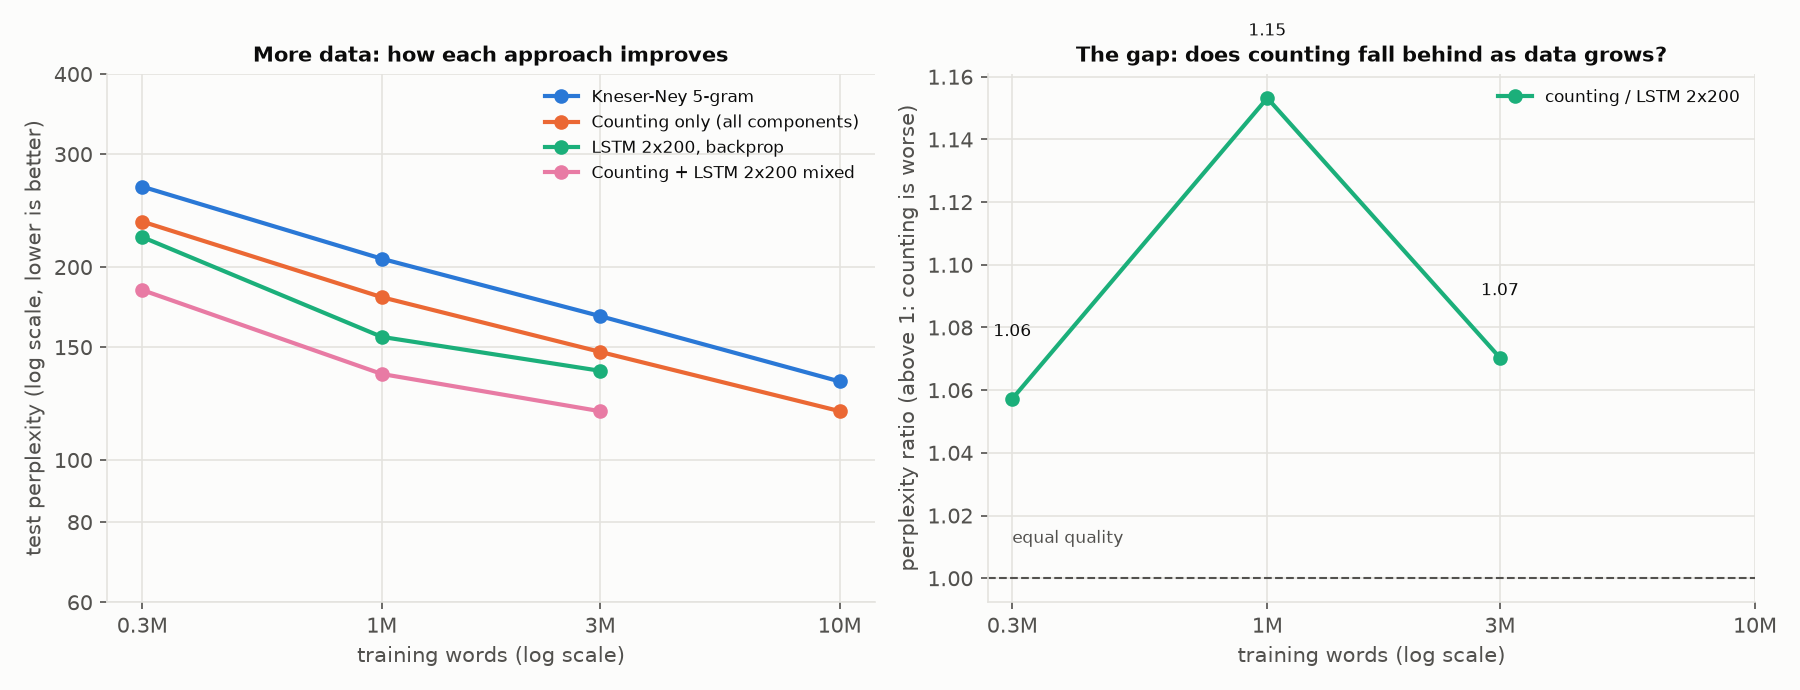
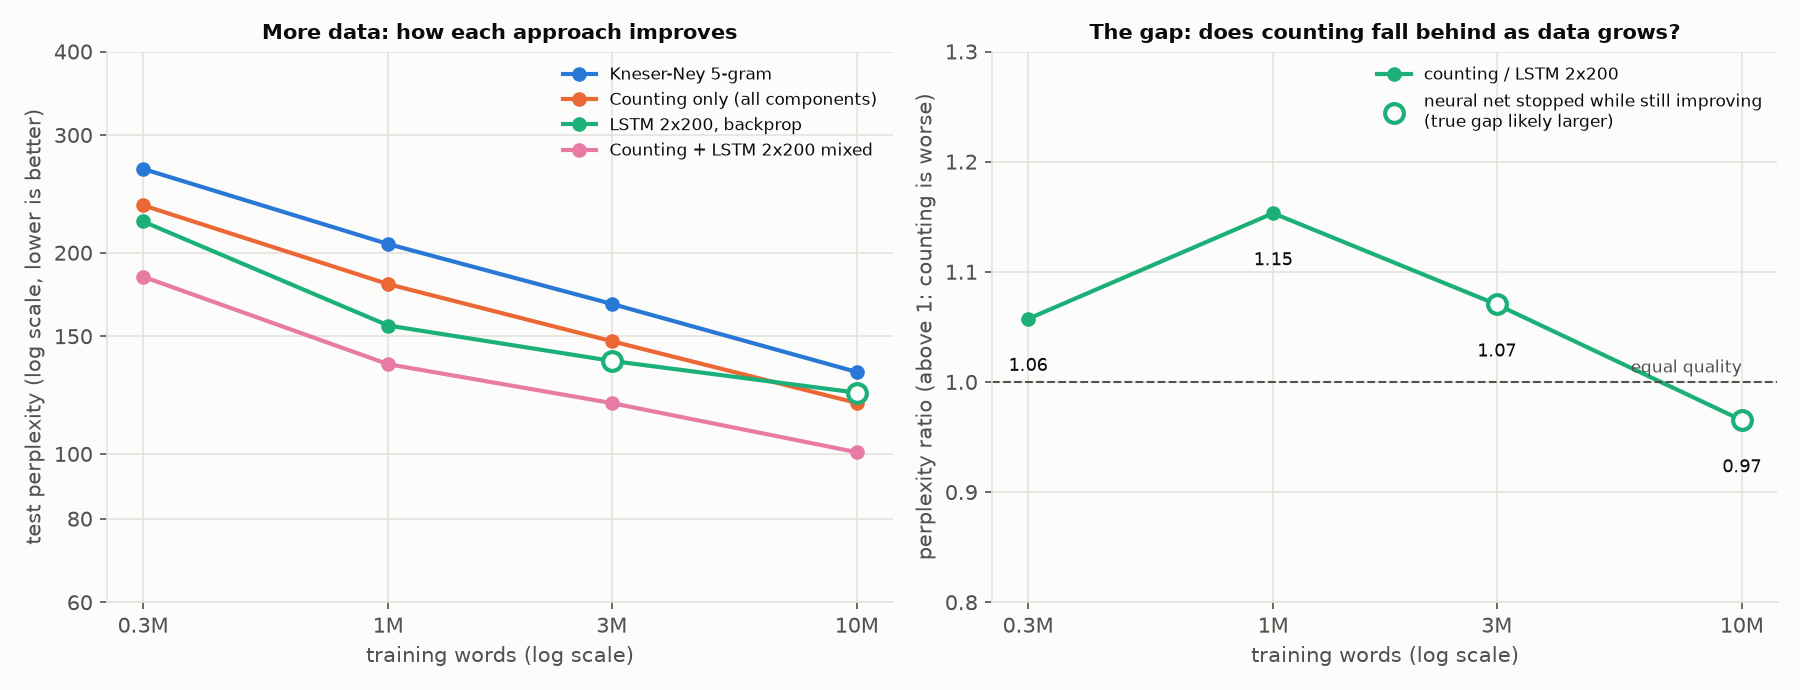
Scale test complete: add results, figure and write-up section
Counting vs LSTM on IMDB reviews at 0.3M-10M training words. The gap
stays within -3% to +15% with no upward trend, but the LSTM hit its
epoch budget while still improving at 3M and 10M, so the larger-size
gaps understate the network; this is flagged in the table and figure.

Claude-Session: https://claude.ai/code/session_01EoLBsvGwogQGZkVnHmGzGV

diff --git a/run_scale.py b/run_scale.py
@@ -96,7 +96,10 @@ def report():
                 both = em_weights(np.concatenate([Pv, lv[:, None]], 1))
                 r[f"counting+lstm{H}"] = mix_ppl(np.concatenate([Pt, lt[:, None]], 1), both)
                 r[f"gap{H}"] = r["counting"] / r[f"lstm{H}"]
-                r[f"lstm{H}_train_minutes"] = json.load(open(os.path.join(OUT, f"{n}_lstm{H}.json")))["train_seconds"] / 60
+                lj = json.load(open(os.path.join(OUT, f"{n}_lstm{H}.json")))
+                r[f"lstm{H}_train_minutes"] = lj["train_seconds"] / 60
+                cur = lj["curve"]
+                r[f"lstm{H}_cut_off"] = bool(len(cur) >= EPOCHS[n] and len(cur) > 1 and cur[-1][2] < 0.99 * cur[-2][2])
         tj = os.path.join(OUT, f"{n}_count_timings.json")
         if os.path.exists(tj):
             T = json.load(open(tj))
@@ -122,6 +125,11 @@ def report():
         if pts:
             xs, ys = zip(*pts)
             ax.plot(xs, ys, color=col, lw=2, marker="o", ms=6, label=lab)
+            if key.startswith("lstm"):
+                cut = [(r["train_words"], r[key]) for r in rows if r.get(key + "_cut_off")]
+                if cut:
+                    cx, cy = zip(*cut)
+                    ax.plot(cx, cy, ls="none", marker="o", ms=9, mfc=SURFACE, mec=col, mew=2)
     ax.set_xscale("log"); ax.set_yscale("log")
     ax.set_xticks(ns, [f"{n / 1e6:g}M" for n in ns]); ax.minorticks_off()
     yt = [60, 80, 100, 150, 200, 300, 400]
@@ -135,10 +143,16 @@ def report():
         if pts:
             xs, ys = zip(*pts)
             ax.plot(xs, ys, color=col, lw=2, marker="o", ms=6, label=f"counting / LSTM 2x{H}")
+            cut = [(r["train_words"], r[f"gap{H}"]) for r in rows if r.get(f"lstm{H}_cut_off")]
+            if cut:
+                cx, cy = zip(*cut)
+                ax.plot(cx, cy, ls="none", marker="o", ms=9, mfc=SURFACE, mec=col, mew=2,
+                        label="neural net stopped while still improving\n(true gap likely larger)")
             for x_, y_ in pts:
-                ax.text(x_, y_ + 0.02, f"{y_:.2f}", ha="center", fontsize=8, color=INK)
+                ax.text(x_, y_ - 0.035, f"{y_:.2f}", ha="center", va="top", fontsize=8.5, color=INK)
     ax.axhline(1.0, color=INK2, lw=1, ls="--")
-    ax.text(ns[0], 1.01, "equal quality", fontsize=8, color=INK2, va="bottom")
+    ax.text(ns[-1], 1.005, "equal quality", fontsize=8, color=INK2, va="bottom", ha="right")
+    ax.set_ylim(0.8, 1.3)
     ax.set_xscale("log"); ax.set_xticks(ns, [f"{n / 1e6:g}M" for n in ns]); ax.minorticks_off()
     ax.set_xlabel("training words (log scale)"); ax.set_ylabel("perplexity ratio (above 1: counting is worse)")
     ax.set_title("The gap: does counting fall behind as data grows?", fontweight="bold", fontsize=10)

diff --git a/COUNTING_AI.md b/COUNTING_AI.md
@@ -163,8 +163,8 @@ that gap, including me. If one existed, training strong models would become some
 laptops could do by adding up their counts. That is the size of the prize, and it is still open.
 
 Next experiments, each runnable with this repository:
-1. **Scale test.** The same pipeline on WikiText-103 (100× more data): does counting's gap to neural
-   models shrink or grow?
+1. **Scale test.** Done at 0.3M to 10M words; see Section 8. The open part is converged, larger
+   networks at 100M+ words, which needs a GPU.
 2. **Closed-form learned features.** Reduced-rank regression / CCA between past and future
    contexts gives predictive features from sums of second moments. Does it close the gap on the
    frequent-context buckets, where counting loses today?
@@ -173,7 +173,52 @@ Next experiments, each runnable with this repository:
 4. **Counting + tiny network, pushed further.** Mix with a regularised neural model and measure how
    much neural compute the counts save at equal quality.
 
-## 8. Reproduce
+## 8. Scale test: does counting fall behind as data grows?
+
+**Setup.**
+- **Corpus:** IMDB movie reviews. WikiText-103 was blocked by this sandbox's network policy, and IMDB was the largest English corpus reachable.
+- **Training sets:** 0.3M, 1M, 3M and 10M words, a 33× range, with a 10k-word vocabulary.
+- **Scoring:** every model is scored on the same 10,000 held-out test positions.
+- **Counting model:** settings chosen on Penn Treebank, left unchanged.
+- **Neural network:** LSTM 2×200 with dropout 0.2 and early stopping. Its epoch budget was capped at 20 / 13 / 8 / 4 epochs to fit the CPU.
+
+Code: `run_scale.py`, `alm/kn_fast.py`, `alm/imdb.py`. Raw results: `results/scale/`.
+
+| Training words | Kneser-Ney 5-gram | Counting only | LSTM 2×200 | Gap (counting ÷ LSTM) | Mixed | Counting training | LSTM training |
+|---|---|---|---|---|---|---|---|
+| 0.3M | 267 | 235 | 223 | 1.06 | 184 | 0.4 min | 16 min |
+| 1M | 206 | 179 | 156 | 1.15 | 136 | 1.8 min | 40 min |
+| 3M | 168 | 147 | 138\* | 1.07\* | 119 | 5.6 min | 64 min |
+| 10M | 133 | 119 | 124\* | 0.97\* | 101 | 17 min | 92 min |
+
+\* The network was still improving when its epoch budget ran out. At 10M its validation perplexity
+went 139 → 129 → 125 → 122 over its four epochs. Training times were measured with the two
+pipelines sharing the 4-core CPU.
+
+![Scale test](results/scale/fig_scale.png)
+
+**What the numbers say, and what they don't:**
+- **Counting did not fall behind the small network across 33× more data.** The gap stayed
+  between −3% and +15%, with no upward trend.
+- **That is not evidence that counting scales like neural networks, for three reasons.**
+  - At 3M and 10M the network was stopped before converging. Extrapolating its 10M validation
+    curve suggests a converged test perplexity of roughly 110–116, a gap of about 1.03–1.08. That
+    range is a rough estimate, not a measurement.
+  - The network was held at 200 units. In practice, networks are grown as data grows.
+  - At much larger scale, the published gap is large: on the One Billion Word benchmark,
+    Kneser-Ney 5-gram scores 67.6 while large single LSTMs score about 30 (Chelba et al. 2013;
+    Jozefowicz et al. 2016).
+- **Mixing keeps paying off at every size.** It gives 12–18% lower perplexity than the better single model.
+- **The soft n-gram's scoring cost grows with the data.** At 10M words it needs about 0.27 s
+  per scored word (5,392 s for 20,000 positions), where the network needs milliseconds. This
+  is the approach's main practical weakness.
+
+**Verdict:** within a CPU budget and up to 10M words, counting keeps pace with a small neural
+network and complements it strongly. Nothing here shows it can match neural networks at the
+scale of modern AI, and the larger-scale evidence says it cannot. The experiment that would
+settle it is converged, larger networks at 100M+ words, which needs a GPU or days of CPU time.
+
+## 9. Reproduce
 
 ```bash
 pip install numpy scipy jax matplotlib
@@ -183,15 +228,20 @@ python3 run_lm.py exact        # merge / unlearn exactness
 python3 run_lm.py lstm         # CPU LSTM baseline (~25 min)
 python3 run_lm.py analyze      # per-context-frequency comparison + figure
 python3 run_lm.py bucketed     # context-dependent mixing weights
+for n in 300000 1000000 3000000 10000000; do python3 run_scale.py count $n; python3 run_scale.py lstm $n; done
+python3 run_scale.py report    # scale-test table + figure (the full loop takes ~6 h on 4 cores)
 ```
 
 ## References
 
 - Cao, Y. & Yang, J. (2015). Towards making systems forget with machine unlearning. IEEE S&P.
+- Chelba, C. et al. (2013). One billion word benchmark for measuring progress in statistical language modeling. arXiv:1312.3005.
 - Chen, S. & Goodman, J. (1998). An empirical study of smoothing techniques for language modeling. Harvard TR-10-98.
 - Dai, Z. et al. (2019). Transformer-XL: Attentive language models beyond a fixed-length context. ACL.
 - Dagan, I., Lee, L. & Pereira, F. (1999). Similarity-based models of word cooccurrence probabilities. *Machine Learning* 34.
+- Jozefowicz, R. et al. (2016). Exploring the limits of language modeling. arXiv:1602.02410.
 - Khandelwal, U. et al. (2020). Generalization through memorization: nearest neighbor language models. ICLR.
+- Maas, A. et al. (2011). Learning word vectors for sentiment analysis (the IMDB review corpus). ACL.
 - Levy, O. & Goldberg, Y. (2014). Neural word embedding as implicit matrix factorization. NeurIPS.
 - Merity, S., Keskar, N. & Socher, R. (2018). Regularizing and optimizing LSTM language models (AWD-LSTM). ICLR.
 - Mikolov, T. et al. (2011). Empirical evaluation and combination of advanced language modeling techniques. Interspeech.

diff --git a/README.md b/README.md
@@ -30,3 +30,5 @@ python3 report.py                # -> results/summary.md and results/*.png
 | `results/` | Raw JSON per run, aggregated tables, figures, ablations |
 | `alm/`, `run_lm.py` | Counting-only language model: Kneser-Ney, cache, skip-grams, count-derived vectors, closed-form predictor, soft n-gram, CPU LSTM baseline |
 | `results/lm/` | Per-token probabilities, timings, mixtures, exactness checks, analysis figure |
+| `run_scale.py`, `alm/kn_fast.py`, `alm/imdb.py` | Data-scaling test (0.3M to 10M words of IMDB reviews): counting vs LSTM |
+| `results/scale/` | Scale-test probabilities, timings, table (`scale.json`) and figure |
